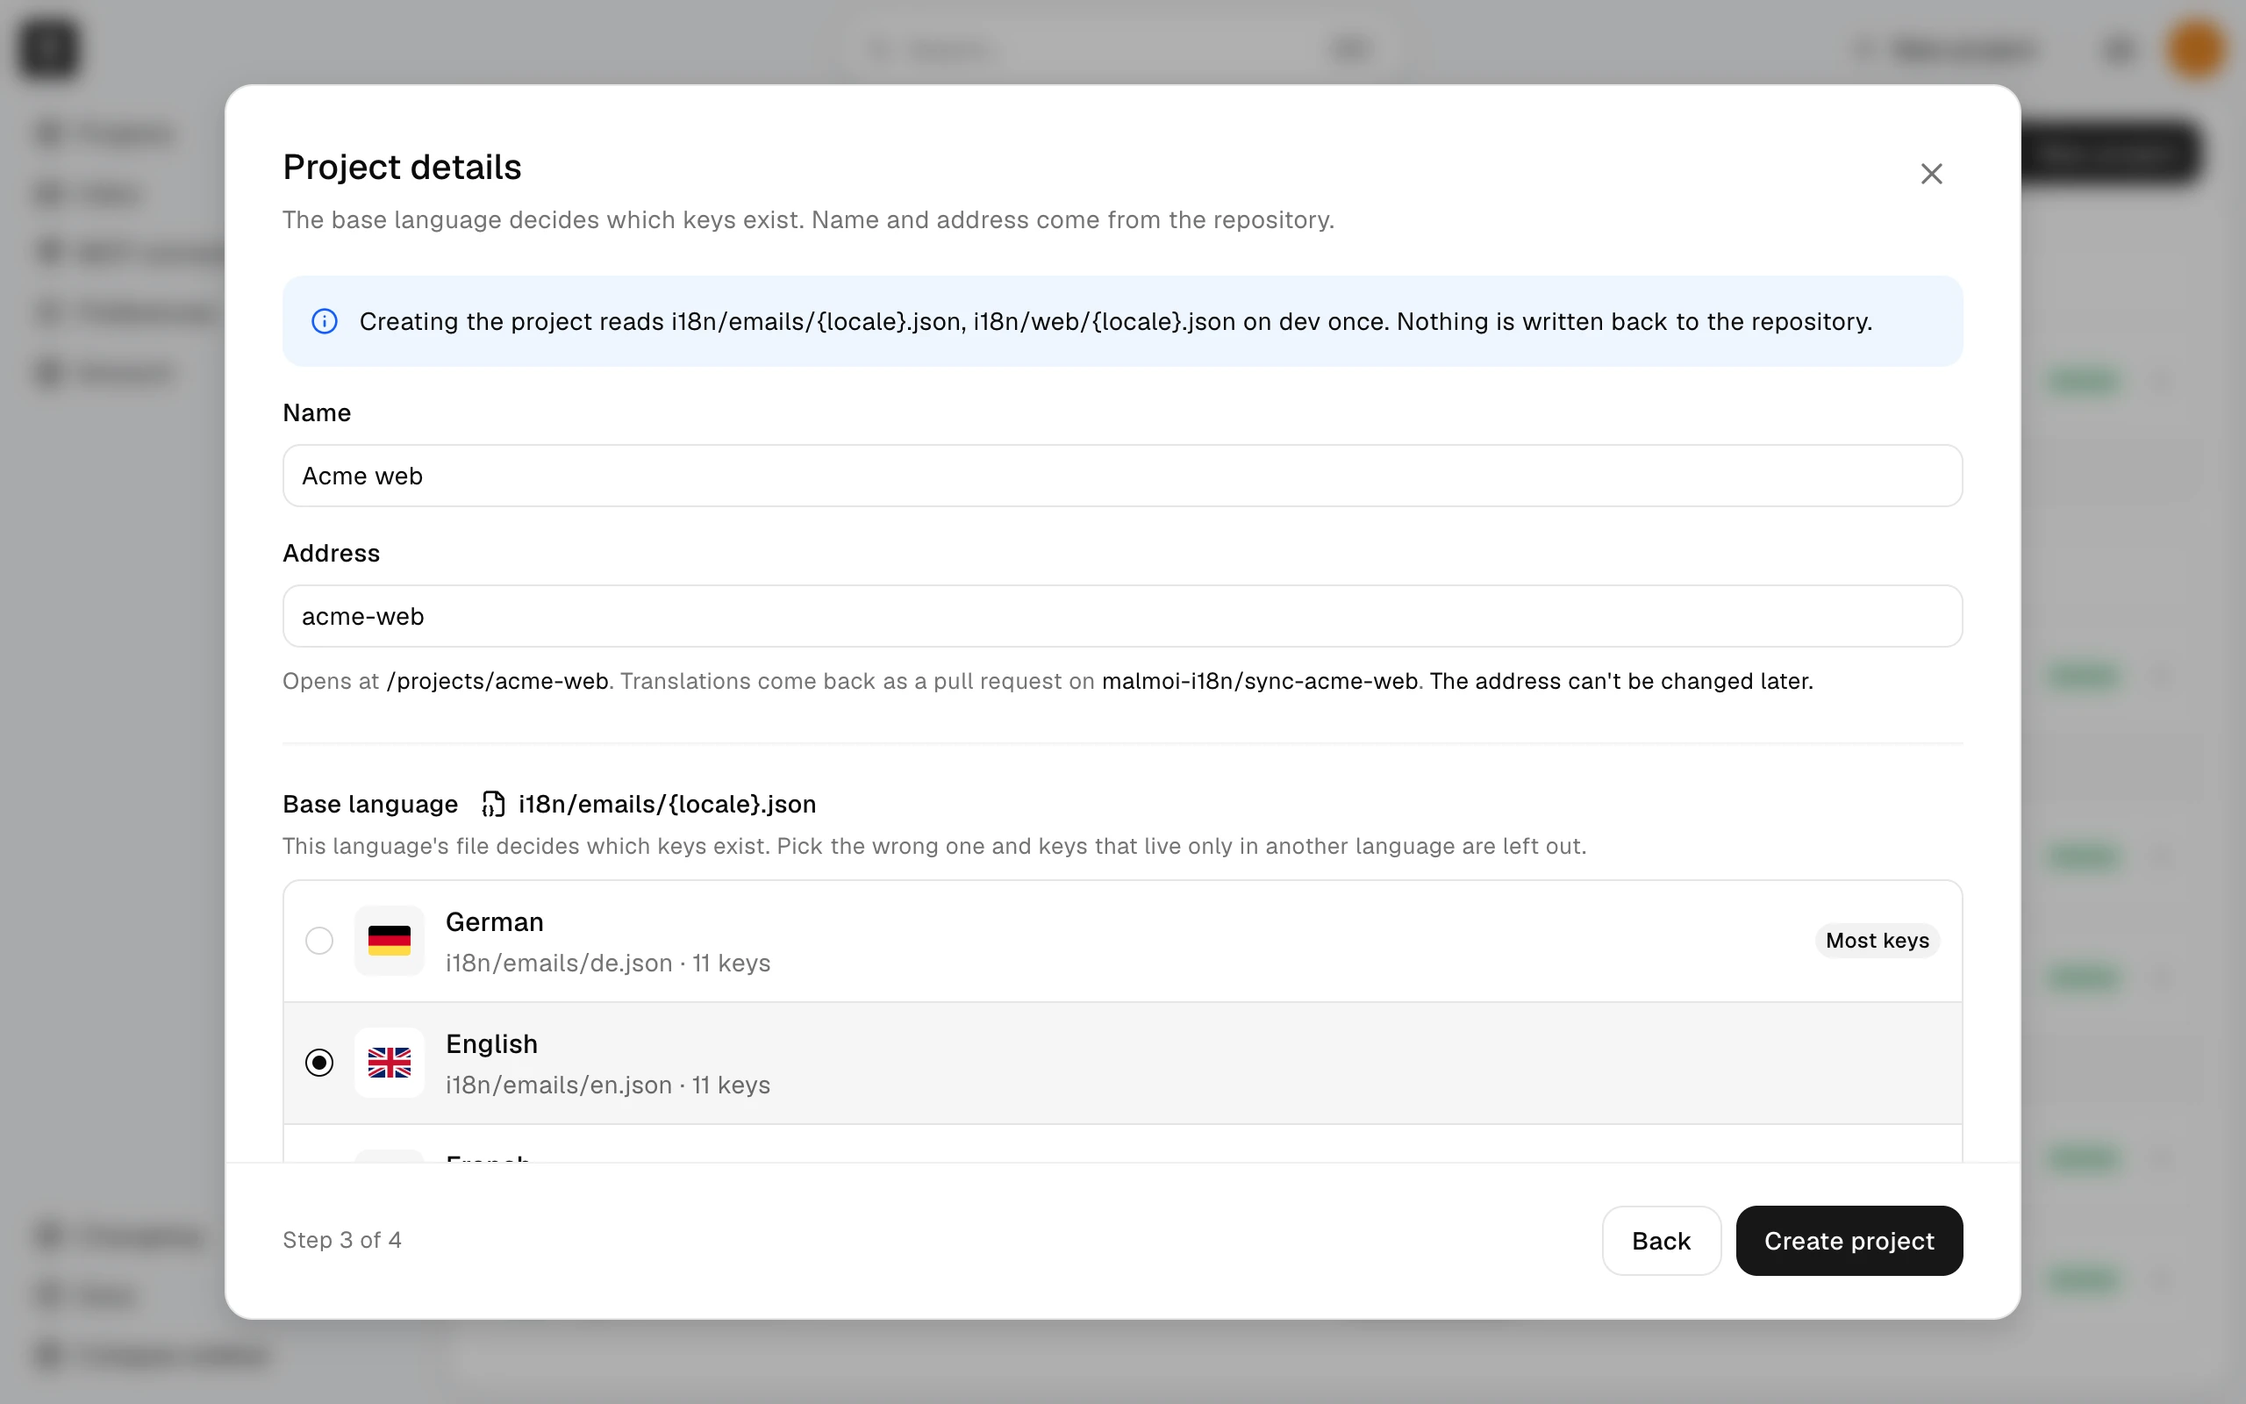
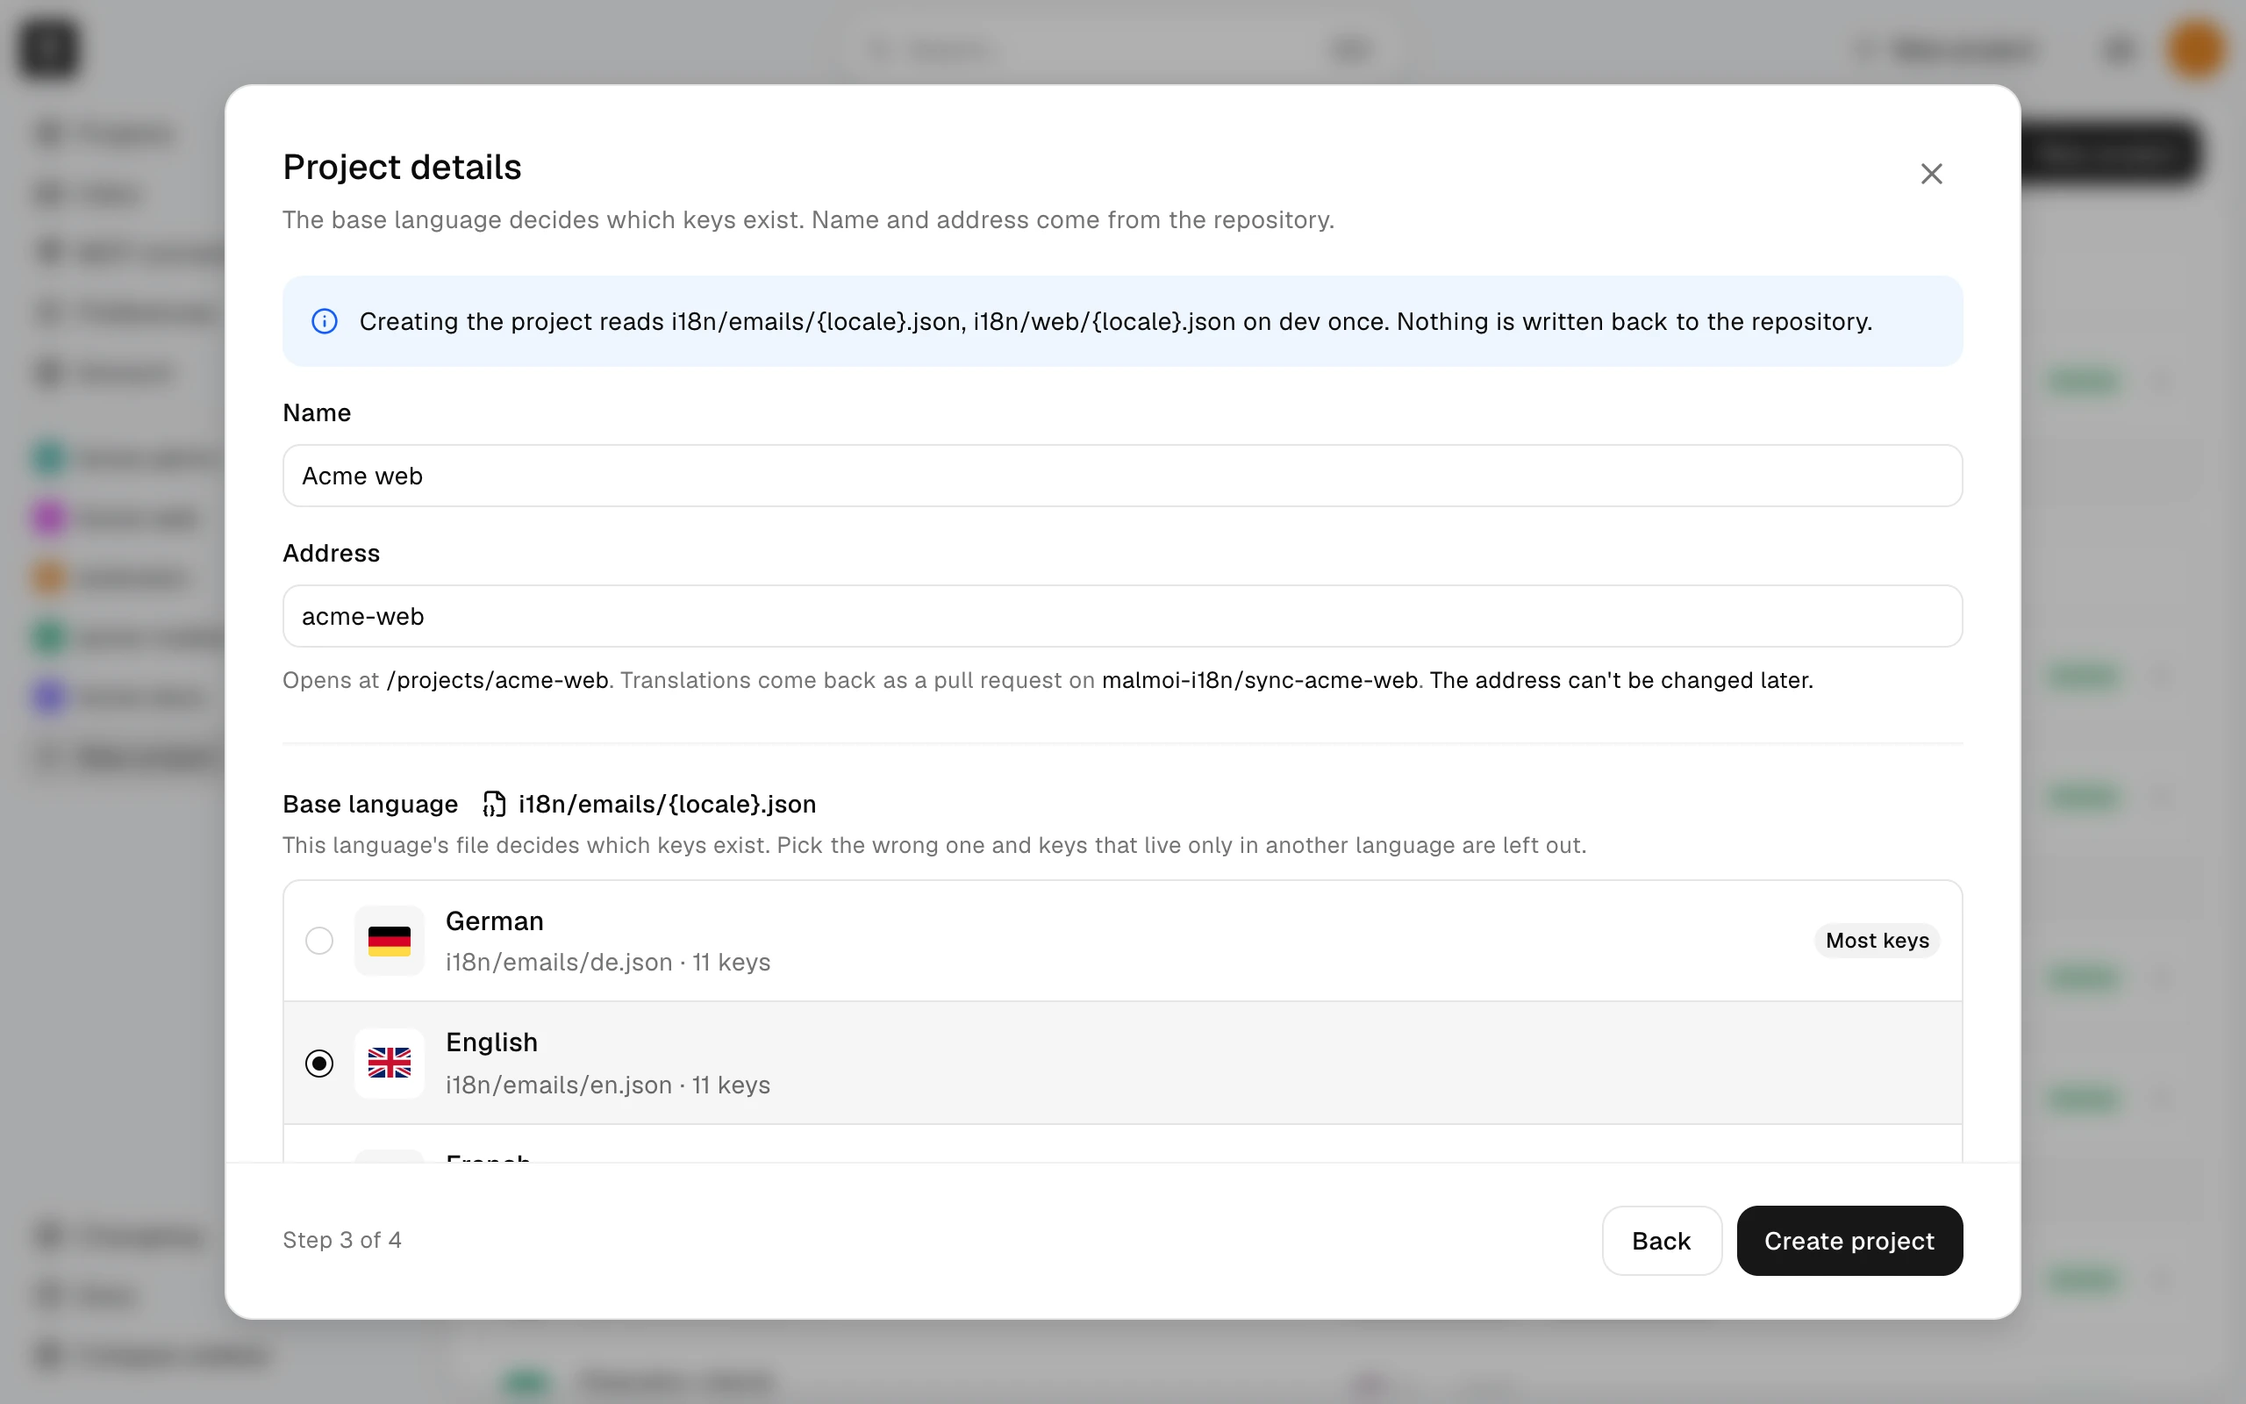
docs(guide): retake shell shots for the sidebar project list

diff --git a/guide/SHOOTING.md b/guide/SHOOTING.md
@@ -71,6 +71,7 @@
 
 - ⚠ **오너 GitHub 계정명은 원본으로 올릴 수 없다** — `SinhyeokKang/malmoi/...`는 action 경로라 `setup/allowed-actions.md`에 정당하게 있고, 게이트가 부분 문자열로 red를 낸다. 화면에서 그 계정이 사람으로 보이는 자리(셸 좌측 상단·계정 메뉴)는 크롭으로 뺀다. action 경로 속 계정명은 공개 식별자라 그대로 둔다.
 - 픽셀 안의 문자열은 게이트가 못 본다. 컷마다 눈으로 확인한다.
+- **프로젝트 밖 셸의 프로젝트 목록 구역**(2026-10-09, sidebar-projects)은 OWNER의 실제 프로젝트 이름(앞 5개)을 보인다 — 구역 `<nav aria-label="Your projects">` **안에서만** 먼저 치환한다(일반 치환은 `malmoi`·`bugshot-i18n-test-qa`를 다른 자리까지 바꾼다): 긴 QA 이름 → `Acme admin`, `bugshot-i18n-test-qa` → `extension`(표의 `acme-web`은 `Acme web` 행과 겹친다 — inbox 컷의 선례), `i18n-order-check` → `acme-mobile`, `malmoi` → `Acme docs`. 이미지 썸네일(`bugshot-i18n-test-qa`·`malmoi`)은 기본 타일(`bg-hue-*` + Box 글리프)로 바꿔 끼운다 — `bg-hue-*`는 `amber`·`emerald`·`fuchsia`·`indigo`·`orange`·`rose`·`sky`·`teal`만 있다(없는 색은 흰 타일로 그려진다). EDITOR 세션은 멤버 프로젝트 둘(`Acme web` · `extension`)과 `New project`만 보인다.
 
 ## 컷 목록 {#picks}
 
@@ -131,7 +132,7 @@
 | /guide/archive-card.webp | components/settings/archive-card.tsx | fbf5ba1bd7b87ff3c8ea910d2876d810b3deb440 | 2560x1600 |
 | /guide/accept-invitation.webp | app/invite/[token]/page.tsx, components/invite/project-card.tsx, components/signin/auth-layout.tsx | 01d3b1bcd7b4c96ad05a866d147b1c7e3b6076bf, 127ce43ee81376d2129c819207560812ddf1f1e7, ddc84a27986efdde192d4c3c11710a50f5c7793f | 2560x1600 |
 | /guide/state-filter.webp | components/translations/workspace/filter-menu.tsx, components/translations/workspace/key-list.tsx, dict:translations.workspace.filters.state.any, dict:translations.workspace.filters.state.incomplete, dict:translations.workspace.filters.state.unsent, dict:translations.workspace.filters.state.review, dict:translations.workspace.filters.state.new | 0d6e722c777ce3d4d3cdba98015793f38c2cbb4a, 9596e3f69feeec0778cb4c7124767a3a95862e06, b823bb9b42b3672439670b5267fe5328d7524380, 387fd1bbc18419e26c612f4acad9213e5073ade4, 0d09fa0d8c890b48da20aefe409a39eb962b5114, 33a506cf6ec5a56c261838f0a5a3d29cd7f2dacc, 56539cd31aeb7453fb2900c2952b988146fd6127 | 2560x1600 |
-| /guide/inbox-open.webp | components/shell/attention-inbox.tsx, lib/home/attention-view.ts, lib/inbox/plan.ts, components/inbox/row-slots.tsx | 411075b427853c25cb2740ed06dc3973912a9d37, edbbb141b2877391ee384376b69298ae30d301da, 4145fd76f2c3729a2975d9c5f53c87195e710f80, 733b1e879b07ca09c03a8687fde5d75a037fde68 | 2560x1600 |
+| /guide/inbox-open.webp | components/shell/attention-inbox.tsx, lib/home/attention-view.ts, lib/inbox/plan.ts, components/inbox/row-slots.tsx | 9f7be14483570471a44553e15b2154f261cc904a, edbbb141b2877391ee384376b69298ae30d301da, 4145fd76f2c3729a2975d9c5f53c87195e710f80, 733b1e879b07ca09c03a8687fde5d75a037fde68 | 2560x1600 |
 | /guide/inbox-page.webp | app/(edit)/inbox/page.tsx, components/inbox/inbox-list.tsx, components/inbox/row-slots.tsx, lib/inbox/plan.ts | df74c31a4dd36d61615638890d73981e0d854782, be439ea0b57a08136990b9c26fa176cb9a84c38e, 733b1e879b07ca09c03a8687fde5d75a037fde68, 4145fd76f2c3729a2975d9c5f53c87195e710f80 | 2560x1600 |
 | /guide/home-publish.webp | app/(edit)/projects/[slug]/(home)/page.tsx, components/home/count-cards.tsx, components/publish-button.tsx | a3ca13f26f31e8a50d046d89963b03ab79574988, aad0c76c5b1b352330b9b93e8e9fe831717ea8f2, e07ae82f0b935c381b92cfae5f3f89baac59b0b5 | 2560x1600 |
 | /guide/publish-result.webp | components/publish-button.tsx | e07ae82f0b935c381b92cfae5f3f89baac59b0b5 | 2560x1600 |
@@ -140,7 +141,7 @@
 | /guide/sync-discard.webp | components/home/sync-button.tsx | 6e26d3c6e1c1a79e576b92c991dd513326141c5e | 2560x1600 |
 | /guide/logs-event.webp | components/logs/event-dialog.tsx, components/logs/event-detail.tsx | f03f54787c21c24216b53227a80754171d840ce2, 41d583280d6c73fd973fe42b2740a5331f4b9744 | 2560x1600 |
 | /guide/account.webp | app/(edit)/account/page.tsx, components/account/profile-picture.tsx, components/account/login-methods.tsx, components/account/github-section.tsx | 3a0e01be1fb9af960bf096d9923a33868c1b81c5, c046b68900106589bb16eb3f4dac04814a076cb8, 7d8ab765f1710c3a452c279c208254d07c805f43, cc5b5c1b7db894adc756f158c54974d1ca3abeb4 | 2560x1600 |
-| /guide/footer-language-menu.webp | components/i18n/locale-switcher.tsx, lib/i18n/locales.ts | 26526326dab777d54e7992f65cf8ff62319bae4f, 7ae40a45e0677ae93a26e331d74bda1680d403da | 2560x1600 |
+| /guide/footer-language-menu.webp | components/i18n/locale-switcher.tsx, lib/i18n/locales.ts | 6cdd7e581a7a3c865900d0d5d57a332dc101d511, 7ae40a45e0677ae93a26e331d74bda1680d403da | 2560x1600 |
 | /guide/preferences-language.webp | app/(edit)/preferences/page.tsx, components/preferences/language-card.tsx, components/preferences/time-zone-card.tsx, components/preferences/preference-select-card.tsx, components/preferences/theme-card.tsx, dict:uiLocale.label, dict:preferences.help | ba45481f1bad944a5b4582d56b5ea6e84e141d6e, 35fad581fb2f5b7b9ab4b854151513f55fa608bd, e89003ad1ccfc47db86ab5c6afc09e6f95d6aefb, 8c375c527167fc1b4975c5f24916dea854f41f2e, 083ee9575152faf792fed1a0abfa5e105a670c46, 89b86ab0e66f527166d98df92ddbcf5416ed58f6, 7a750458e565a71d07b3e10a45654499a58c2673 | 2560x1600 |
 | /guide/mcp-create-token.webp | components/mcp/token-modal.tsx, components/mcp/token-grant-fields.tsx | c96820a9c8869d021052c5873b0404cfc8e3e7b4, ad7e6129db1f932a7d9ef42b0d18756abe81552f | 2560x1600 |
 | /guide/mcp-connector.webp | components/mcp/connected-apps-card.tsx, components/mcp/token-card.tsx | 369d43ab9dd9dc50045d250315813c6dba07c0ea, 0f417f11f0c5c8dc43c709919590561c6e74cf8d | 2560x1600 |
@@ -201,3 +202,4 @@
 
 - 2026-10-07 audit 후 stale 6컷(7건) 정리 — `sources`·`create-repository` **재촬영**(2560×1600, WebP quality 90). Sources 상태 배지의 오른쪽 배치와 저장소 목록 위 설치 안내를 반영했다. `publish-preview`·`home-publish`·`publish-result`는 새 차단 응답 분기만 바뀌어 기존 정상 미리보기·Home·변경 없음 화면이 그대로이고, `accept-invitation`은 바뀐 장식 영역을 렌더하지 않으므로 **SHA만 갱신**했다. OWNER의 계정·쿠키 언어 en, 촬영 동안 테마 System + 라이트 에뮬레이션(원래 Dark로 복원). 프로젝트·번역·초대·GitHub 쓰기 없음, 기존 Inbox 안 읽은 1건 그대로. 마스킹 표 추가 없음. 저장소 선택 컷의 `bugshot-i18n-test`는 기존 선례대로 `extension`으로 치환했다.
 - 2026-10-09 inbox-page G(LNB 사용자 구역에 `Inbox` 항목 + 안 읽음 수 배지 · `/inbox` 페이지 · 헤더 트리거 이름 `Inbox`) — **셸이 든 컷 전부 재촬영**(지휘자 결정 D3): `public/guide/` 25장 + README 두 장(`hero` · `logs`). **추가 1**: `inbox-page`(`translate/edit.md#inbox`, EDITOR — `/inbox`, 카드 둘 · 이번 방문의 안 읽은 점 셋 · 페이지가 읽음을 기록해 헤더·사이드바 배지가 0) — 세 언어 원고에 같은 경로로 참조를 넣었다. **그대로 둔 다섯**: `push-token-secret` · `actions-policy`(GitHub 화면) · `accept-invitation`(셸 밖 골격) · `oauth-consent`(셸 밖 동의 화면) · `footer-language-menu`(비로그인 공개 셸 — LNB 없음). 매핑 소스 추가: `inbox-open`에 `components/inbox/row-slots.tsx`(행 조각이 그 파일로 옮겨 `guide:check`가 못 잡는다). 셋업: OWNER `checkout.submit` de `Jetzt bestellen` 저장 → `home-paused`(Sync 탭 — 자기 미전송 1건이 헤더·사이드바 Inbox 배지 `1`을 세운 채 찍혔다, 실제 상태라 두었다)·`sync-discard`(Cancel)·`revert-confirm` → 실제 Revert(켜져 있었다) · EDITOR `checkout.submit` fr `Passer la commande` → `home-publish`·`publish-preview`(PR 안 엶) → `inbox-open` → `inbox-page` → 빈 값 재저장 → Publish(`Nothing differs`) → `publish-result` → `translation-editor`·`state-filter` · MCP 연결 둘은 가짜 `OAuthConnection` 행(id `ipg-gs-*`) → 촬영 뒤 삭제(0→0) · ①–③은 운영자 면제로 `/projects/new`에 바로 들어갔고 Create project는 누르지 않았다 · ④는 벽 절 절차대로 일회용 프로젝트(`i18n-format-check` · dev · `locales/{locale}.yml` · `Acme web`/`ipg-shot-tmp`)를 만들어 토큰 input을 43자 가짜 값으로 바꾸고 `api-url` 1줄 제거 · `group:`의 주소를 `acme-web`으로 치환해 찍은 뒤 id로 지웠다(사건 3 · 번역 28 · 키 10 · 로케일 3 · 멤버 1 · 표면 1 · 프로젝트 1) · `inbox-open`·`inbox-page`는 `bugshot-i18n-test-qa`의 `_locales`에 `import-failed`(now) · `namespaces`에 `partial-import`(2h 전)를 심어 찍고 NULL로 되돌렸다(그룹 이름은 이 두 컷에서만 `extension`). README `logs`는 Kind: Publish 목록 맨 위(Oct 7 — Nothing to send · Sent · Held back · Failed가 한 화면에 든다)를 찍었다 — 옛 17:11 구간은 첫 쪽 밖으로 밀렸다. `logs-event`는 같은 목록의 12:08 Sent(2 files) 사건이다. 계정 값의 전/후(촬영 동안만 바꿨다): OWNER `colorScheme` `dark` → `system`(+ `prefers-color-scheme: light` 에뮬레이션) → `dark`, `attentionSeenAt` 기존 값 → now → 기존 값 · EDITOR `colorScheme` null → `system` → null, `attentionSeenAt` null → (촬영) → null. 전후 대조: 미전달 `acme-web` 0→0(나머지 프로젝트 그대로 — `qa-sar-disposable` 1은 원래 있던 것), OAuth 연결 0→0, 초대 수 그대로, `TranslationSurface` 실패 표시 전부 NULL, `acme-web` 사건 50→55(편집·Revert · 편집·재저장·Publish), 나머지 프로젝트 사건 그대로, GitHub 쓰기 없음. ⚠ **새로 밟은 것**: ① EDITOR 계정 테마는 null인데 **기기 쿠키 `malmoi-color-scheme`이 dark**라(같은 브라우저에서 OWNER가 남긴 값) EDITOR 컷이 다크로 찍혔다 — 계정 값을 `system`으로 두고 다시 찍었다. 계정 전환 뒤엔 `data-theme`을 먼저 본다. ② `attentionSeenAt`은 `timestamp without time zone`이라 `pg` 클라이언트가 로컬(KST)로 읽는다 — 되돌릴 때 출력된 `…Z` 값을 그대로 넣으면 9시간 어긋난다. 같은 읽기로 다시 대조해 맞춘다. ③ 같은 스크립트를 두 번 돌려 EDITOR 편집 상태에서 `translation-editor`·`state-filter`가 덮였다 — 정리(Publish) 뒤 다시 찍었다. 편집이 든 스크립트와 화면 컷 스크립트를 나눈다.
+- 2026-10-09 sidebar-projects G(프로젝트 밖 화면의 LNB에 프로젝트 목록 구역 — 앞 5개 + `New project`, 지휘자 결정 D8) — **프로젝트 밖 컷 9장 재촬영**: `account` · `preferences-language` · `mcp-connector`(OWNER) · `create-repository` · `create-files` · `create-name` · `create-ready`(OWNER, `/projects/new`의 Dim 뒤 셸) · `inbox-page` · `mcp-create-token`(EDITOR). **재촬영 없이 SHA만 갱신 2**: `inbox-open`(`attention-inbox.tsx`가 `LiveStatus`를 `components/shell/live-status.tsx`로 옮긴 리팩터 — 드롭다운 화면 불변이고 프로젝트 라우트에서 찍은 컷이라 이번 변경 밖) · `footer-language-menu`(`locale-switcher.tsx` 주석 한 줄 — 둘 다 이번 변경 전의 기존 stale). **그대로 둔 것**: 프로젝트 라우트 컷 전부와 README `hero`·`logs`(프로젝트 라우트는 불변 — 완료 조건 6), `push-token-secret`·`actions-policy`(GitHub 화면), `accept-invitation`·`oauth-consent`(셸 밖), `footer-language-menu`(공개 셸, LNB 없음). 매핑 소스·치수는 그대로다(셸은 소스로 올리지 않는다 — 위 규칙). 셋업: OWNER 계정 테마 `dark` → UI로 `system` + `prefers-color-scheme: light` 에뮬레이션 → 끝나고 UI로 `dark` 복원 · 마스킹은 위 목록 구역 규칙 + 기존 OWNER/EDITOR 치환 · `mcp-connector`는 가짜 `OAuthConnection` 행 둘(id `sp-gs-*`) → 촬영 뒤 삭제(0→0) · `create-ready`는 벽 절 절차대로 일회용 프로젝트(`i18n-format-check` · dev · `locales/{locale}.yml` · `Acme web`/`sp-shot-tmp`)를 UI로 만들어 토큰 input을 43자 가짜 값으로 바꾸고 `api-url` 1줄 제거 · `group:`의 주소를 `acme-web`으로 치환해 찍은 뒤 id(`d5c0a16a-…`)로 지웠다(사건 3 · 번역 28 · 키 10 · 로케일 3 · 멤버 1 · 표면 1 · 프로젝트 1; 일회용 slug는 `malmoi` 뒤에 정렬돼 목록 구역 앞 5개에 들지 않았다) · `create-*` ①–③은 Create project를 누르지 않았다(운영자 면제로 `/projects/new` 직접 진입) · `inbox-page`는 `bugshot-i18n-test-qa`의 `_locales`에 `import-failed`(now) · `namespaces`에 `partial-import`(2h 전)를 심고 EDITOR `checkout.submit` fr `Passer la commande`를 저장한 뒤 `attentionSeenAt`을 NULL로 두고 찍었다 → 표시 NULL 복원 · 값을 빈 칸으로 재저장 → Publish(`Nothing differs` → `Nothing changed in the files`) · EDITOR `attentionSeenAt` `2026-10-08 17:31:53.465`(`::text` 원문) → NULL → 같은 원문으로 복원. 전후 대조: 미전달 `qa-sar-disposable` 1(원래 있던 것) 외 0, OAuth 연결 0→0, 프로젝트 9→9, 미수락 초대 16(이번 세션에 만들지 않았다), `TranslationSurface` 실패 표시 전부 NULL, 전체 사건 681→684·`acme-web` 55→58(편집·재저장·Publish), 나머지 프로젝트 사건 그대로, GitHub 쓰기 없음. 로그인 전환: OWNER(GitHub) 세션 → 로그아웃 → Google 계정 선택 화면에서 EDITOR → 촬영 → 로그아웃 → GitHub `Continue as`로 OWNER 복귀. ⚠ **새로 밟은 것**: ① 목록 구역의 썸네일 이미지 둘은 `<img>`라 텍스트 치환이 못 바꾼다 — 기본 타일로 갈아 끼운다. ② 목록 구역 이름은 `truncate`라 긴 QA 이름은 치환 전 말줄임표로 그려진다 — 치환 이름이 짧아 컷엔 안 보인다. ③ 사이드바 Projects 배지는 보관 제외 전체 수(OWNER 9, EDITOR 2)이고 구역은 앞 5개만 보인다 — 그대로 찍었다. ④ `inbox-page`의 실패 행(`extension` 그룹)이 맨 위에 서려면 실패 시각이 미전송 편집 저장보다 **늦어야** 한다 — 심기를 편집 저장 뒤에 한다(앞에 심으면 Acme web 그룹이 위로 올라간다). ⑤ `.env.local`을 읽는 DB 스크립트(`sql.mjs`·`fail-seed.mjs`)는 리포 루트에서 돌린다(경로 상대).
